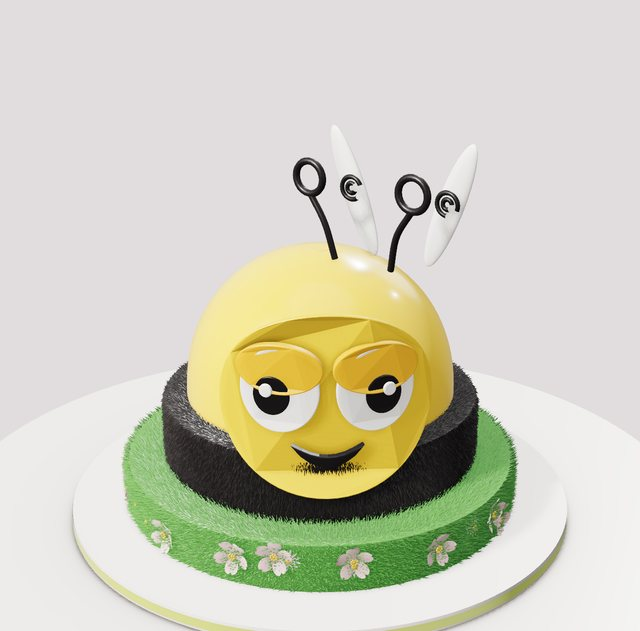
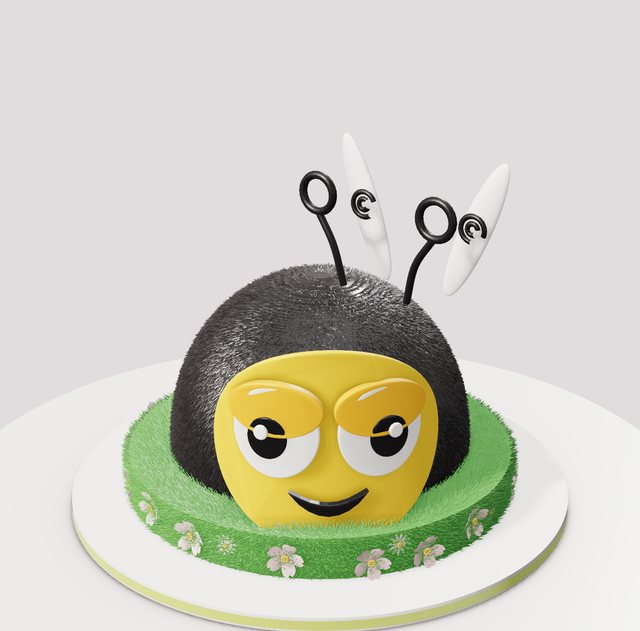
Money bag sack shape with rope knot and ties; fuzzy black bee dome with yellow face; smooth shading on all face pieces
Claude-Session: https://claude.ai/code/session_016sN14hzH19WJ5zrp8o2QGp

Changed region(s): [[0.0938, 0.2409, 0.9062, 1.0]]

diff --git a/studio.html b/studio.html
@@ -1132,7 +1132,7 @@ const texFade=(yy,h)=>smooth(.03,.3,yy)*smooth(h-.02,h-.32,yy);
 // ---------------------------------------------------------------- Cake shapes
 // Each shape gives the edge distance at angle a, as a multiple of the tier's radius (half its size).
 // Side profiles: scale a tier's width along its height (0 = bottom, 1 = top). Used for a gathered money bag and puffy pillow cakes.
-const PROFILES={bag:u=>(u=Math.min(1,Math.max(0,u)))<.3?.8+.2*Math.sin(u/.3*PI/2):.3+.7*Math.pow(Math.cos((u-.3)/.7*PI/2),.9),pillow:u=>.9+.1*Math.sin(PI*Math.min(1,Math.max(0,u))),dome:u=>.93+.07*Math.sin(PI*Math.min(1,Math.max(0,u))),half:u=>Math.max(.07,Math.sqrt(Math.max(0,1-Math.pow(Math.min(1,Math.max(0,u)),2.2)))),bucket:u=>.86+.14*Math.min(1,Math.max(0,u)),flare:u=>.62+.5*Math.pow(Math.min(1,Math.max(0,u)),1.4)};
+const PROFILES={bag:u=>(u=Math.min(1,Math.max(0,u)))<.3?.8+.2*Math.sin(u/.3*PI/2):.3+.7*Math.pow(Math.cos((u-.3)/.7*PI/2),.9),pillow:u=>.9+.1*Math.sin(PI*Math.min(1,Math.max(0,u))),dome:u=>.93+.07*Math.sin(PI*Math.min(1,Math.max(0,u))),half:u=>Math.max(.07,Math.sqrt(Math.max(0,1-Math.pow(Math.min(1,Math.max(0,u)),2.2)))),sack:u=>{u=Math.min(1,Math.max(0,u));return u<.14?.8+.2*Math.sin(u/.14*PI/2):u<.5?1:1-.56*Math.pow(Math.sin((u-.5)/.5*PI/2),1.6)},bucket:u=>.86+.14*Math.min(1,Math.max(0,u)),flare:u=>.62+.5*Math.pow(Math.min(1,Math.max(0,u)),1.4)};
 const SHAPES={round:'Round',square:'Square',hexagon:'Hexagon',heart:'Heart',petal:'Petal',oval:'Oval'};
 const HEART_LUT=(()=>{const pts=[];for(let i=0;i<1440;i++){const t=i/1440*2*PI,hx=16*Math.sin(t)**3,hy=13*Math.cos(t)-5*Math.cos(2*t)-2*Math.cos(3*t)-Math.cos(4*t),X=hx,Z=-(hy+1.5);pts.push([Math.atan2(Z,X),Math.hypot(X,Z)/16])}pts.sort((a,b)=>a[0]-b[0]);
  const N=720,L=new Float32Array(N);for(let i=0;i<N;i++){const a=-PI+i/N*2*PI;let j=pts.findIndex(p=>p[0]>=a);if(j<=0)j=j<0?0:1;const p0=pts[(j-1+pts.length)%pts.length],p1=pts[j%pts.length],da=(p1[0]-p0[0])||1e-6;L[i]=p0[1]+(p1[1]-p0[1])*Math.min(1,Math.max(0,(a-p0[0])/da))}return L})();
@@ -1341,7 +1341,7 @@ const sgMat={
  metal:c=>dmat(c,{r:.22,metal:1,cc:.5}),
  sugar:c=>dmat(c,{r:.45,cc:.35,ccr:.2,sh:.35})};
 // Bend a flat "face" piece around a tier of radius R (local units) so wide pieces hug the cake.
-function sgBend(g,R){if(!R||R<=0)return g;const p=g.attributes.position;for(let i=0;i<p.count;i++){const x=p.getX(i),y=p.getY(i),th=x/R;p.setX(i,(R+y)*Math.sin(th));p.setY(i,(R+y)*Math.cos(th)-R)}g.computeVertexNormals();return g}
+function sgBend(g,R){if(!R||R<=0)return g;const p=g.attributes.position,n=g.attributes.normal;if(!n)g.computeVertexNormals();const nn=g.attributes.normal;for(let i=0;i<p.count;i++){const x=p.getX(i),y=p.getY(i),th=x/R,c=Math.cos(th),s=Math.sin(th);p.setX(i,(R+y)*s);p.setY(i,(R+y)*c-R);const nx=nn.getX(i),ny=nn.getY(i);nn.setXYZ(i,nx*c+ny*s,-nx*s+ny*c,nn.getZ(i))}p.needsUpdate=true;nn.needsUpdate=true;return g}
 const sgR=(dc)=>dc&&dc.R?dc.R/((dc.size??100)/100):0;
 const sgOval=(x,y,rx,ry,depth,lift=0)=>{const pts=[];for(let i=0;i<72;i++){const a=i/72*2*PI;pts.push(new T.Vector2(x+rx*Math.cos(a),y+ry*Math.sin(a)))}return flatShape(new T.Shape(pts),depth,lift)};
 // ---------- sports balls ----------
@@ -1603,6 +1603,15 @@ function cornUpParts(q,c,mode,dc){const p=cornParts(q,c,mode,dc);for(const[,g]of
 DECOR.cornup={label:'Standing Corn',layouts:['cluster','crown','scatter'],layout:'cluster',count:3,max:12,color:'#f2c230',colors:['#f2c230','#f6d76a'],sp:.7,side:'up',sink:.02,tilt:[0,0],make:cornUpParts};
 DECOR_ICONS.cornup=DECOR_ICONS.corncob;
 {const c=DECOR_CATS.find(x=>x.key==='signature');c.items.push('cornup')}
+// ---- rope knot with hanging ends (money bag neck) ----
+function ropeKnotParts(q,c){const g=[];const rope=(pts,r)=>{const cv=new T.CatmullRomCurve3(pts.map(p=>new V3(...p))),tb=new T.TubeGeometry(cv,48,r,10,false),pp=tb.attributes.position;return tb};
+ for(let k=0;k<3;k++){const a=k/3*2*PI,t=new T.TorusGeometry(.24,.12,10,24);t.rotateY(.4);t.translate(Math.cos(a)*.13,Math.sin(a)*.13,.12);g.push(t)}const b=new T.SphereGeometry(.17,14,10);b.translate(0,0,.2);g.push(b);
+ g.push(rope([[-.05,-.1,.15],[-.2,-.6,.5],[-.36,-1.2,.85],[-.45,-1.75,1.15],[-.55,-2.4,1.35]],.13));g.push(rope([[.08,-.1,.15],[.22,-.55,.45],[.34,-1.05,.8],[.45,-1.6,1.1],[.5,-2.1,1.3]],.13));
+ for(const[x,y,z]of[[-.55,-2.42,1.35],[.5,-2.12,1.3]]){const s=new T.SphereGeometry(.1,10,8);s.translate(x,y,z);g.push(s)}
+ return[[dmat(c,{r:.6,cc:.1}),mg(g)]]}
+DECOR.ropeknot={label:'Rope Knot And Ties',layouts:['band'],layout:'band',count:1,max:2,color:'#1d1b1f',colors:['#1d1b1f','#d4ae5a','#8a5a3a','#fbf7f1'],sp:2,roll:0,sink:0,embed:.08,make:ropeKnotParts};
+DECOR_ICONS.ropeknot=di('<circle cx="20" cy="12" r="5" fill="#1d1b1f"/><path d="M18 15q-4 10-6 18M22 15q3 8 4 14" stroke="#1d1b1f" stroke-width="3" fill="none"/>');
+{const c=DECOR_CATS.find(x=>x.key==='signature');c.items.push('ropeknot')}
 
 // ---------- Signature cakes: Sprinkle Me Silly's real cakes, rebuilt in the Studio ----------
 const SIG='Signature Cakes';
@@ -1658,14 +1667,13 @@ THEMES.unshift(
   newTier(7.8,8.4,{color:'#fbf7f1',finish:'fondant',prof:'bucket',stencil:{pattern:'stripes',color:'#d62839',size:1.3,height:8.2},top:'rope',pipe:'#fbf7f1',bottom:'none',decor:[DC('poplabel','band',1,{color:'#d62839',size:200,R:3.7,rot:55,y:.6}),DC('popcorn','cluster',120,{color:'#f8efd4',size:260}),DC('ticket','cluster',1,{color:'#f6cf5a',size:300,center:true,face:95}),DC('stars','cluster',5,{mix:['#f38ab0','#5fc8d8','#f2c230'],size:240})]})]}},
  {key:'sig_crawfish',name:'Crawfish Boil Pot',tag:SIG,blurb:'A brushed silver stock pot cake with a tilted lid and loop handles, spilling over with crawfish and corn, with potatoes and corn on the board.',d:{board:'white',boardColor:'#ece5d3',topper:'none',tiers:[
   newTier(8,7,{color:'#c4c8ce',finish:'fondant',texture:'brushed',top:'rope',pipe:'#aeb2b8',bottom:'rope',bottomColor:'#aeb2b8',decor:[DC('pothandle','band',2,{color:'#c9ccd2',size:160,y:2,rot:95}),DC('potlid2','cluster',1,{color:'#c9ccd2',size:300,center:true}),DC('crawfish','crown',9,{color:'#d2381e',size:300}),DC('corncob','crown',3,{color:'#eeb31c',size:250,rot:60}),DC('crawhang','band',6,{color:'#d2381e',size:240,y:2.2}),DC('cornup','cluster',4,{color:'#eeb31c',size:300,where:'board',seed:3}),DC('corncob','cluster',2,{color:'#eeb31c',size:280,where:'board',seed:9}),DC('potato','cluster',5,{color:'#c99a45',size:320,where:'board'})]})]}},
- {key:'sig_bee',name:'Bumble Bee Garden',tag:SIG,blurb:'A smooth yellow dome bee head with big eyes and a smile, a fuzzy black piped collar, looped antennae and a garden of piped grass and sugar flowers.',d:{board:'white',boardColor:'#c9d96a',topper:'none',tiers:[
-  newTier(13,1.6,{color:'#5cae4a',texture:'grass',top:'none',bottom:'none',decor:[DC('daisies','scatter',12,{color:'#fbf7f1',size:130}),DC('blossoms','scatter',18,{mix:['#f3a6c0','#f2c230','#7fb0e8','#e8475f'],size:130})]}),
-  newTier(10.4,2.2,{color:'#1d1b1f',texture:'fur',top:'none',bottom:'none'}),
-  newTier(9,5,{color:'#ffd21f',finish:'fondant',prof:'half',top:'none',bottom:'none',decor:[DC('beeface','band',1,{color:'#ffd21f',size:340,R:4.5,rot:55,y:-.6}),DC('beetop','cluster',1,{color:'#ffd21f',size:230,center:true,face:95})]})]}},
- {key:'sig_moneybag',name:'Money Bag Birthday',tag:SIG,blurb:'A red money bag cake with a gathered neck tied in thick black rope, a big gold dollar sign, and cash and gold dollar signs bursting out the top.',d:{board:'white',boardColor:'#e9eaec',topper:'none',tiers:[
-  newTier(9,8,{color:'#c1442e',finish:'fondant',prof:'bag',top:'none',bottom:'none',decor:[DC('dollarface','band',1,{color:'#d4ae5a',size:340,R:4.5,rot:55,y:-1.2})]}),
-  newTier(3.4,1.2,{color:'#b73a26',finish:'fondant',top:'rope',pipe:'#1d1b1f',bottom:'rope',bottomColor:'#1d1b1f'}),
-  newTier(3.6,2.6,{color:'#c1442e',finish:'fondant',texture:'ruffle',prof:'flare',top:'none',bottom:'none',decor:[DC('cash','cluster',24,{size:340,center:true}),DC('dollarsign','cluster',3,{color:'#d4ae5a',size:230,center:true})]})]}});
+ {key:'sig_bee',name:'Bumble Bee Garden',tag:SIG,blurb:'A fuzzy black piped bee dome with a big round yellow face, googly eyes and a smile, swirl wings and curly antennae, in a garden of piped grass and sugar flowers.',d:{board:'white',boardColor:'#c9d96a',topper:'none',tiers:[
+  newTier(13,1.4,{color:'#5cae4a',texture:'grass',top:'none',bottom:'none',decor:[DC('daisies','scatter',12,{color:'#fbf7f1',size:130}),DC('blossoms','scatter',18,{mix:['#f3a6c0','#f2c230','#7fb0e8','#e8475f'],size:130})]}),
+  newTier(10,6,{color:'#1d1b1f',texture:'fur',prof:'half',top:'none',bottom:'none',decor:[DC('beeface','band',1,{color:'#ffd21f',size:370,R:4.3,rot:55,y:-.3}),DC('beetop','cluster',1,{color:'#ffd21f',size:260,center:true,face:95})]})]}},
+ {key:'sig_moneybag',name:'Money Bag Birthday',tag:SIG,blurb:'A red money bag cake with a gathered neck tied in thick black rope with a knot and hanging ties, a big gold dollar sign, and cash and gold dollar signs bursting out the top.',d:{board:'white',boardColor:'#e9eaec',topper:'none',tiers:[
+  newTier(9.4,7.4,{color:'#b5321f',prof:'sack',texture:'smooth',top:'none',bottom:'none',decor:[DC('dollarface','band',1,{color:'#d4ae5a',size:320,R:4.7,rot:55,y:-.5})]}),
+  newTier(4.4,.9,{color:'#a82e1c',top:'rope',pipe:'#1d1b1f',bottom:'rope',bottomColor:'#1d1b1f',decor:[DC('ropeknot','band',1,{color:'#1d1b1f',size:200,rot:92,y:.1})]}),
+  newTier(5.4,2,{color:'#b5321f',texture:'ruffle',prof:'flare',top:'none',bottom:'none',decor:[DC('cash','cluster',26,{size:360,center:true}),DC('dollarsign','cluster',2,{color:'#d4ae5a',size:300,center:true})]})]}});
 Object.assign(DECOR,Object.fromEntries(Object.entries(MODELS).map(([k,d])=>['m_'+k,{label:d[0]+' (3D)',layouts:['cluster','crown'],layout:'cluster',count:1,max:6,sp:3,side:'up',spin:.3,sink:0,embed:0,noTilt:true,model:true,make:(q,c,mode,dc)=>{const e=MODEL_CACHE[k];if(!e){loadModel(k);return[]}if(!e.parts)return[];if(e.pieces){const n=e.pieces.length,pi=dc?.piece!=null?dc.piece%n:Math.floor(q()*n);return e.pieces[pi].map(([m,g])=>[c?tintMat(m,c):m,g.clone()])}return e.parts.map(([m,g],pi)=>{const pc=dc?.partColors?.[pi]||c;return[pc?tintMat(m,pc):m,g.clone()]})}}])));
 for(const v of Object.values(DECOR))if(v&&v.label)v.label=capWords(v.label);
 DECOR_CATS.push({key:'m_figures',label:'3D Figures',items:['mermaid','princess','unicorn','unicornstand','unicrown','wedding','fairytale'].map(k=>'m_'+k)},{key:'m_animals',label:'3D Animals',items:['giraffe3','panda','sheep','rabbit3','corgi','duck','rubberduck','swans','butterfly3','panda2'].map(k=>'m_'+k)},{key:'m_dino',label:'3D Dinosaurs',items:['dino','babydino','spino','dino2','friendlydino','littledino','dino3','camodino','dinoemerge','jungledino'].map(k=>'m_'+k)},{key:'m_ocean',label:'3D Ocean',items:['oceangate','oceandancer','oceanjewel','oceansmile','oceanbloom','mermaidtale','mermaiddelight','unimermaid','mermaidtail','starfish','fish1','fish2'].map(k=>'m_'+k)},{key:'m_food',label:'3D Treats And Food',items:['corndog','popcorn','foodA','foodB','fries','pizza','burger','coffee'].map(k=>'m_'+k)},{key:'m_vehicles',label:'3D Cars And Sports',items:['carcartoon','cartooncar','whitecar','redcar','weatheredcar','baseball','basketball','tennis'].map(k=>'m_'+k)},{key:'m_trees',label:'3D Trees And Nature',items:['tree2','tree3','pinetree','mushroom','snowflake','leaf','mountain','fence'].map(k=>'m_'+k)},{key:'m_themes',label:'3D Toppers',items:['gradcap','rocket','shuttle','galleon','chest','globe','skull','wings','crystal','crystalflake'].map(k=>'m_'+k)},{key:'m_frames',label:'Frames',items:['frame','frame2','baroqueframe','luxe'].map(k=>'m_'+k)},{key:'m_bows',label:'Bows & Ribbons',items:['bowpastel','bowred'].map(k=>'m_'+k)});
@@ -2044,9 +2052,9 @@ function buildCake(){
   if(t.texture==='grass'||t.texture==='fur'){curPart='fur';const FUR=t.texture==='fur',lk=(t.furLen??100)/100,sp=(FUR?.06:.072)*Math.max(.8,Math.min(1.25,lk)),c1=new T.Color(t.color),c2=new T.Color(t.ombre?(t.ombreColor||'#fbf7f1'):t.color),cc=new T.Color(),P=[],N=[],C=[],U=new V3(),Vv=new V3(),D=new V3(),Bc=new V3(),Ns=new V3(),tmp=new V3();
    const strand=(B,Dir,Nsurf,L,w,k)=>{D.copy(Dir).normalize();U.set(0,1,0);if(Math.abs(D.y)>.9)U.set(1,0,0);U.cross(D).normalize();Vv.crossVectors(D,U);const tip=B.clone().addScaledVector(D,L);cc.copy(c1).lerp(c2,k);const dark=.7+q()*.12,lite=1.02+q()*.12;const ph=q()*6.28;for(let e=0;e<3;e++){const a0=ph+e/3*2*PI,a1=ph+(e+1)/3*2*PI;for(const[pt,isTip,aa]of[[null,false,a0],[null,false,a1],[tip,true,(a0+a1)/2]]){const p=isTip?tip:B.clone().addScaledVector(U,Math.cos(aa)*w).addScaledVector(Vv,Math.sin(aa)*w);P.push(p.x,p.y,p.z);tmp.copy(U).multiplyScalar(Math.cos(aa)).addScaledVector(Vv,Math.sin(aa)).multiplyScalar(.45).addScaledVector(Nsurf,.75).normalize();N.push(tmp.x,tmp.y,tmp.z);const f=isTip?lite:dark;C.push(cc.r*f,cc.g*f,cc.b*f)}}};
    // Sides
-   const rows=Math.max(3,Math.round(h/sp)),cols=Math.max(24,Math.round(2*PI*r/sp));for(let row=0;row<rows;row++){const yy=y+(row+.3+q()*.4)*h/rows;for(let jj=0;jj<cols;jj++){const a=(jj+(row%2?.5:0)+(q()-.5)*.6)/cols*2*PI;const R=R_at(a,yy)-.02;Ns.copy(radial(a));Bc.copy(Ns).multiplyScalar(R).setY(yy);const tilt=FUR?-(.55+q()*.5):(.25+q()*.55),sw=(q()-.5)*(FUR?.5:.8);D.copy(Ns).multiplyScalar(Math.cos(tilt)).add(tmp.set(0,Math.sin(tilt),0)).addScaledVector(new V3(-Math.sin(a),0,Math.cos(a)),sw);const L=(FUR?.17+q()*.1:.22+q()*.16)*lk;strand(Bc.clone(),D.clone(),Ns.clone(),L,(FUR?.032:.028)*Math.min(1.3,lk+.2),(yy-y)/h)}}
+   const rows=Math.max(3,Math.round(h/sp)),cols=Math.max(24,Math.round(2*PI*r/sp));for(let row=0;row<rows;row++){const yy=y+(row+.3+q()*.4)*h/rows;for(let jj=0;jj<cols;jj++){const a=(jj+(row%2?.5:0)+(q()-.5)*.6)/cols*2*PI;const R=R_at(a,yy)-.02;Ns.copy(radial(a));Bc.copy(Ns).multiplyScalar(R).setY(yy);if(t.prof){const sl=(R_at(a,yy+.06)-R_at(a,yy-.06))/.12;Ns.setY(-sl).normalize()}const tilt=FUR?-(.55+q()*.5):(.25+q()*.55),sw=(q()-.5)*(FUR?.5:.8);D.copy(Ns).multiplyScalar(Math.cos(tilt)).add(tmp.set(0,Math.sin(tilt),0)).addScaledVector(new V3(-Math.sin(a),0,Math.cos(a)),sw);const L=(FUR?.17+q()*.1:.22+q()*.16)*lk;strand(Bc.clone(),D.clone(),Ns.clone(),L,(FUR?.032:.028)*Math.min(1.3,lk+.2),(yy-y)/h)}}
    // Top: sunflower spiral so the strands spread evenly, leaving room for the next tier.
-   if(t.furTop!==false){const inner=nr?nr-.1:0,area=PI*(r*r-inner*inner),M=Math.round(area/(sp*sp)),GA=PI*(3-Math.sqrt(5));Ns.set(0,1,0);for(let k=0;k<M;k++){const rr=Math.sqrt(inner*inner+(r*r-inner*inner)*(k+.5)/M)*.985,a=k*GA,yy=y+h;Bc.copy(radial(a)).multiplyScalar(rr).setY(yy-.02);const edge=Math.max(0,(rr-(r-.5))/.5),lean=(FUR?.5:.3)+q()*(FUR?.6:.5)+edge*.6,dir=a+(q()-.5)*1.2;D.set(Math.cos(dir)*Math.sin(lean),Math.cos(lean),Math.sin(dir)*Math.sin(lean));const L=(FUR?.15+q()*.1:.22+q()*.16)*lk;strand(Bc.clone(),D.clone(),Ns.clone(),L,(FUR?.032:.028)*Math.min(1.3,lk+.2),1)}}
+   if(t.furTop!==false&&!t.prof){const inner=nr?nr-.1:0,area=PI*(r*r-inner*inner),M=Math.round(area/(sp*sp)),GA=PI*(3-Math.sqrt(5));Ns.set(0,1,0);for(let k=0;k<M;k++){const rr=Math.sqrt(inner*inner+(r*r-inner*inner)*(k+.5)/M)*.985,a=k*GA,yy=y+h;Bc.copy(radial(a)).multiplyScalar(rr).setY(yy-.02);const edge=Math.max(0,(rr-(r-.5))/.5),lean=(FUR?.5:.3)+q()*(FUR?.6:.5)+edge*.6,dir=a+(q()-.5)*1.2;D.set(Math.cos(dir)*Math.sin(lean),Math.cos(lean),Math.sin(dir)*Math.sin(lean));const L=(FUR?.15+q()*.1:.22+q()*.16)*lk;strand(Bc.clone(),D.clone(),Ns.clone(),L,(FUR?.032:.028)*Math.min(1.3,lk+.2),1)}}
    const g=new T.BufferGeometry();g.setAttribute('position',new T.Float32BufferAttribute(P,3));g.setAttribute('normal',new T.Float32BufferAttribute(N,3));g.setAttribute('color',new T.Float32BufferAttribute(C,3));add(pipeMat('#ffffff'),g);curPart='piping'}
   if(t.stencil?.pattern){try{buildStencil(t,{r,h,y,R_at,add})}catch(err){console.error('Stencil skipped',err)}}
   if(t.topImg||t.sideImg){try{buildEdibles(t,{r,h,y,R_at,add,SHf,q})}catch(err){console.error('Edible image skipped',err)}}

diff --git a/tools/signature-decor.js b/tools/signature-decor.js
@@ -9,7 +9,7 @@ const sgMat={
  metal:c=>dmat(c,{r:.22,metal:1,cc:.5}),
  sugar:c=>dmat(c,{r:.45,cc:.35,ccr:.2,sh:.35})};
 // Bend a flat "face" piece around a tier of radius R (local units) so wide pieces hug the cake.
-function sgBend(g,R){if(!R||R<=0)return g;const p=g.attributes.position;for(let i=0;i<p.count;i++){const x=p.getX(i),y=p.getY(i),th=x/R;p.setX(i,(R+y)*Math.sin(th));p.setY(i,(R+y)*Math.cos(th)-R)}g.computeVertexNormals();return g}
+function sgBend(g,R){if(!R||R<=0)return g;const p=g.attributes.position,n=g.attributes.normal;if(!n)g.computeVertexNormals();const nn=g.attributes.normal;for(let i=0;i<p.count;i++){const x=p.getX(i),y=p.getY(i),th=x/R,c=Math.cos(th),s=Math.sin(th);p.setX(i,(R+y)*s);p.setY(i,(R+y)*c-R);const nx=nn.getX(i),ny=nn.getY(i);nn.setXYZ(i,nx*c+ny*s,-nx*s+ny*c,nn.getZ(i))}p.needsUpdate=true;nn.needsUpdate=true;return g}
 const sgR=(dc)=>dc&&dc.R?dc.R/((dc.size??100)/100):0;
 const sgOval=(x,y,rx,ry,depth,lift=0)=>{const pts=[];for(let i=0;i<72;i++){const a=i/72*2*PI;pts.push(new T.Vector2(x+rx*Math.cos(a),y+ry*Math.sin(a)))}return flatShape(new T.Shape(pts),depth,lift)};
 // ---------- sports balls ----------
@@ -271,6 +271,15 @@ function cornUpParts(q,c,mode,dc){const p=cornParts(q,c,mode,dc);for(const[,g]of
 DECOR.cornup={label:'Standing Corn',layouts:['cluster','crown','scatter'],layout:'cluster',count:3,max:12,color:'#f2c230',colors:['#f2c230','#f6d76a'],sp:.7,side:'up',sink:.02,tilt:[0,0],make:cornUpParts};
 DECOR_ICONS.cornup=DECOR_ICONS.corncob;
 {const c=DECOR_CATS.find(x=>x.key==='signature');c.items.push('cornup')}
+// ---- rope knot with hanging ends (money bag neck) ----
+function ropeKnotParts(q,c){const g=[];const rope=(pts,r)=>{const cv=new T.CatmullRomCurve3(pts.map(p=>new V3(...p))),tb=new T.TubeGeometry(cv,48,r,10,false),pp=tb.attributes.position;return tb};
+ for(let k=0;k<3;k++){const a=k/3*2*PI,t=new T.TorusGeometry(.24,.12,10,24);t.rotateY(.4);t.translate(Math.cos(a)*.13,Math.sin(a)*.13,.12);g.push(t)}const b=new T.SphereGeometry(.17,14,10);b.translate(0,0,.2);g.push(b);
+ g.push(rope([[-.05,-.1,.15],[-.2,-.6,.5],[-.36,-1.2,.85],[-.45,-1.75,1.15],[-.55,-2.4,1.35]],.13));g.push(rope([[.08,-.1,.15],[.22,-.55,.45],[.34,-1.05,.8],[.45,-1.6,1.1],[.5,-2.1,1.3]],.13));
+ for(const[x,y,z]of[[-.55,-2.42,1.35],[.5,-2.12,1.3]]){const s=new T.SphereGeometry(.1,10,8);s.translate(x,y,z);g.push(s)}
+ return[[dmat(c,{r:.6,cc:.1}),mg(g)]]}
+DECOR.ropeknot={label:'Rope Knot And Ties',layouts:['band'],layout:'band',count:1,max:2,color:'#1d1b1f',colors:['#1d1b1f','#d4ae5a','#8a5a3a','#fbf7f1'],sp:2,roll:0,sink:0,embed:.08,make:ropeKnotParts};
+DECOR_ICONS.ropeknot=di('<circle cx="20" cy="12" r="5" fill="#1d1b1f"/><path d="M18 15q-4 10-6 18M22 15q3 8 4 14" stroke="#1d1b1f" stroke-width="3" fill="none"/>');
+{const c=DECOR_CATS.find(x=>x.key==='signature');c.items.push('ropeknot')}
 
 // ---------- Signature cakes: Sprinkle Me Silly's real cakes, rebuilt in the Studio ----------
 const SIG='Signature Cakes';
@@ -326,11 +335,10 @@ THEMES.unshift(
   newTier(7.8,8.4,{color:'#fbf7f1',finish:'fondant',prof:'bucket',stencil:{pattern:'stripes',color:'#d62839',size:1.3,height:8.2},top:'rope',pipe:'#fbf7f1',bottom:'none',decor:[DC('poplabel','band',1,{color:'#d62839',size:200,R:3.7,rot:55,y:.6}),DC('popcorn','cluster',120,{color:'#f8efd4',size:260}),DC('ticket','cluster',1,{color:'#f6cf5a',size:300,center:true,face:95}),DC('stars','cluster',5,{mix:['#f38ab0','#5fc8d8','#f2c230'],size:240})]})]}},
  {key:'sig_crawfish',name:'Crawfish Boil Pot',tag:SIG,blurb:'A brushed silver stock pot cake with a tilted lid and loop handles, spilling over with crawfish and corn, with potatoes and corn on the board.',d:{board:'white',boardColor:'#ece5d3',topper:'none',tiers:[
   newTier(8,7,{color:'#c4c8ce',finish:'fondant',texture:'brushed',top:'rope',pipe:'#aeb2b8',bottom:'rope',bottomColor:'#aeb2b8',decor:[DC('pothandle','band',2,{color:'#c9ccd2',size:160,y:2,rot:95}),DC('potlid2','cluster',1,{color:'#c9ccd2',size:300,center:true}),DC('crawfish','crown',9,{color:'#d2381e',size:300}),DC('corncob','crown',3,{color:'#eeb31c',size:250,rot:60}),DC('crawhang','band',6,{color:'#d2381e',size:240,y:2.2}),DC('cornup','cluster',4,{color:'#eeb31c',size:300,where:'board',seed:3}),DC('corncob','cluster',2,{color:'#eeb31c',size:280,where:'board',seed:9}),DC('potato','cluster',5,{color:'#c99a45',size:320,where:'board'})]})]}},
- {key:'sig_bee',name:'Bumble Bee Garden',tag:SIG,blurb:'A smooth yellow dome bee head with big eyes and a smile, a fuzzy black piped collar, looped antennae and a garden of piped grass and sugar flowers.',d:{board:'white',boardColor:'#c9d96a',topper:'none',tiers:[
-  newTier(13,1.6,{color:'#5cae4a',texture:'grass',top:'none',bottom:'none',decor:[DC('daisies','scatter',12,{color:'#fbf7f1',size:130}),DC('blossoms','scatter',18,{mix:['#f3a6c0','#f2c230','#7fb0e8','#e8475f'],size:130})]}),
-  newTier(10.4,2.2,{color:'#1d1b1f',texture:'fur',top:'none',bottom:'none'}),
-  newTier(9,5,{color:'#ffd21f',finish:'fondant',prof:'half',top:'none',bottom:'none',decor:[DC('beeface','band',1,{color:'#ffd21f',size:340,R:4.5,rot:55,y:-.6}),DC('beetop','cluster',1,{color:'#ffd21f',size:230,center:true,face:95})]})]}},
- {key:'sig_moneybag',name:'Money Bag Birthday',tag:SIG,blurb:'A red money bag cake with a gathered neck tied in thick black rope, a big gold dollar sign, and cash and gold dollar signs bursting out the top.',d:{board:'white',boardColor:'#e9eaec',topper:'none',tiers:[
-  newTier(9,8,{color:'#c1442e',finish:'fondant',prof:'bag',top:'none',bottom:'none',decor:[DC('dollarface','band',1,{color:'#d4ae5a',size:340,R:4.5,rot:55,y:-1.2})]}),
-  newTier(3.4,1.2,{color:'#b73a26',finish:'fondant',top:'rope',pipe:'#1d1b1f',bottom:'rope',bottomColor:'#1d1b1f'}),
-  newTier(3.6,2.6,{color:'#c1442e',finish:'fondant',texture:'ruffle',prof:'flare',top:'none',bottom:'none',decor:[DC('cash','cluster',24,{size:340,center:true}),DC('dollarsign','cluster',3,{color:'#d4ae5a',size:230,center:true})]})]}});
+ {key:'sig_bee',name:'Bumble Bee Garden',tag:SIG,blurb:'A fuzzy black piped bee dome with a big round yellow face, googly eyes and a smile, swirl wings and curly antennae, in a garden of piped grass and sugar flowers.',d:{board:'white',boardColor:'#c9d96a',topper:'none',tiers:[
+  newTier(13,1.4,{color:'#5cae4a',texture:'grass',top:'none',bottom:'none',decor:[DC('daisies','scatter',12,{color:'#fbf7f1',size:130}),DC('blossoms','scatter',18,{mix:['#f3a6c0','#f2c230','#7fb0e8','#e8475f'],size:130})]}),
+  newTier(10,6,{color:'#1d1b1f',texture:'fur',prof:'half',top:'none',bottom:'none',decor:[DC('beeface','band',1,{color:'#ffd21f',size:370,R:4.3,rot:55,y:-.3}),DC('beetop','cluster',1,{color:'#ffd21f',size:260,center:true,face:95})]})]}},
+ {key:'sig_moneybag',name:'Money Bag Birthday',tag:SIG,blurb:'A red money bag cake with a gathered neck tied in thick black rope with a knot and hanging ties, a big gold dollar sign, and cash and gold dollar signs bursting out the top.',d:{board:'white',boardColor:'#e9eaec',topper:'none',tiers:[
+  newTier(9.4,7.4,{color:'#b5321f',prof:'sack',texture:'smooth',top:'none',bottom:'none',decor:[DC('dollarface','band',1,{color:'#d4ae5a',size:320,R:4.7,rot:55,y:-.5})]}),
+  newTier(4.4,.9,{color:'#a82e1c',top:'rope',pipe:'#1d1b1f',bottom:'rope',bottomColor:'#1d1b1f',decor:[DC('ropeknot','band',1,{color:'#1d1b1f',size:200,rot:92,y:.1})]}),
+  newTier(5.4,2,{color:'#b5321f',texture:'ruffle',prof:'flare',top:'none',bottom:'none',decor:[DC('cash','cluster',26,{size:360,center:true}),DC('dollarsign','cluster',2,{color:'#d4ae5a',size:300,center:true})]})]}});

diff --git a/tools/sig-themes.js b/tools/sig-themes.js
@@ -52,11 +52,10 @@ THEMES.unshift(
   newTier(7.8,8.4,{color:'#fbf7f1',finish:'fondant',prof:'bucket',stencil:{pattern:'stripes',color:'#d62839',size:1.3,height:8.2},top:'rope',pipe:'#fbf7f1',bottom:'none',decor:[DC('poplabel','band',1,{color:'#d62839',size:200,R:3.7,rot:55,y:.6}),DC('popcorn','cluster',120,{color:'#f8efd4',size:260}),DC('ticket','cluster',1,{color:'#f6cf5a',size:300,center:true,face:95}),DC('stars','cluster',5,{mix:['#f38ab0','#5fc8d8','#f2c230'],size:240})]})]}},
  {key:'sig_crawfish',name:'Crawfish Boil Pot',tag:SIG,blurb:'A brushed silver stock pot cake with a tilted lid and loop handles, spilling over with crawfish and corn, with potatoes and corn on the board.',d:{board:'white',boardColor:'#ece5d3',topper:'none',tiers:[
   newTier(8,7,{color:'#c4c8ce',finish:'fondant',texture:'brushed',top:'rope',pipe:'#aeb2b8',bottom:'rope',bottomColor:'#aeb2b8',decor:[DC('pothandle','band',2,{color:'#c9ccd2',size:160,y:2,rot:95}),DC('potlid2','cluster',1,{color:'#c9ccd2',size:300,center:true}),DC('crawfish','crown',9,{color:'#d2381e',size:300}),DC('corncob','crown',3,{color:'#eeb31c',size:250,rot:60}),DC('crawhang','band',6,{color:'#d2381e',size:240,y:2.2}),DC('cornup','cluster',4,{color:'#eeb31c',size:300,where:'board',seed:3}),DC('corncob','cluster',2,{color:'#eeb31c',size:280,where:'board',seed:9}),DC('potato','cluster',5,{color:'#c99a45',size:320,where:'board'})]})]}},
- {key:'sig_bee',name:'Bumble Bee Garden',tag:SIG,blurb:'A smooth yellow dome bee head with big eyes and a smile, a fuzzy black piped collar, looped antennae and a garden of piped grass and sugar flowers.',d:{board:'white',boardColor:'#c9d96a',topper:'none',tiers:[
-  newTier(13,1.6,{color:'#5cae4a',texture:'grass',top:'none',bottom:'none',decor:[DC('daisies','scatter',12,{color:'#fbf7f1',size:130}),DC('blossoms','scatter',18,{mix:['#f3a6c0','#f2c230','#7fb0e8','#e8475f'],size:130})]}),
-  newTier(10.4,2.2,{color:'#1d1b1f',texture:'fur',top:'none',bottom:'none'}),
-  newTier(9,5,{color:'#ffd21f',finish:'fondant',prof:'half',top:'none',bottom:'none',decor:[DC('beeface','band',1,{color:'#ffd21f',size:340,R:4.5,rot:55,y:-.6}),DC('beetop','cluster',1,{color:'#ffd21f',size:230,center:true,face:95})]})]}},
- {key:'sig_moneybag',name:'Money Bag Birthday',tag:SIG,blurb:'A red money bag cake with a gathered neck tied in thick black rope, a big gold dollar sign, and cash and gold dollar signs bursting out the top.',d:{board:'white',boardColor:'#e9eaec',topper:'none',tiers:[
-  newTier(9,8,{color:'#c1442e',finish:'fondant',prof:'bag',top:'none',bottom:'none',decor:[DC('dollarface','band',1,{color:'#d4ae5a',size:340,R:4.5,rot:55,y:-1.2})]}),
-  newTier(3.4,1.2,{color:'#b73a26',finish:'fondant',top:'rope',pipe:'#1d1b1f',bottom:'rope',bottomColor:'#1d1b1f'}),
-  newTier(3.6,2.6,{color:'#c1442e',finish:'fondant',texture:'ruffle',prof:'flare',top:'none',bottom:'none',decor:[DC('cash','cluster',24,{size:340,center:true}),DC('dollarsign','cluster',3,{color:'#d4ae5a',size:230,center:true})]})]}});
+ {key:'sig_bee',name:'Bumble Bee Garden',tag:SIG,blurb:'A fuzzy black piped bee dome with a big round yellow face, googly eyes and a smile, swirl wings and curly antennae, in a garden of piped grass and sugar flowers.',d:{board:'white',boardColor:'#c9d96a',topper:'none',tiers:[
+  newTier(13,1.4,{color:'#5cae4a',texture:'grass',top:'none',bottom:'none',decor:[DC('daisies','scatter',12,{color:'#fbf7f1',size:130}),DC('blossoms','scatter',18,{mix:['#f3a6c0','#f2c230','#7fb0e8','#e8475f'],size:130})]}),
+  newTier(10,6,{color:'#1d1b1f',texture:'fur',prof:'half',top:'none',bottom:'none',decor:[DC('beeface','band',1,{color:'#ffd21f',size:370,R:4.3,rot:55,y:-.3}),DC('beetop','cluster',1,{color:'#ffd21f',size:260,center:true,face:95})]})]}},
+ {key:'sig_moneybag',name:'Money Bag Birthday',tag:SIG,blurb:'A red money bag cake with a gathered neck tied in thick black rope with a knot and hanging ties, a big gold dollar sign, and cash and gold dollar signs bursting out the top.',d:{board:'white',boardColor:'#e9eaec',topper:'none',tiers:[
+  newTier(9.4,7.4,{color:'#b5321f',prof:'sack',texture:'smooth',top:'none',bottom:'none',decor:[DC('dollarface','band',1,{color:'#d4ae5a',size:320,R:4.7,rot:55,y:-.5})]}),
+  newTier(4.4,.9,{color:'#a82e1c',top:'rope',pipe:'#1d1b1f',bottom:'rope',bottomColor:'#1d1b1f',decor:[DC('ropeknot','band',1,{color:'#1d1b1f',size:200,rot:92,y:.1})]}),
+  newTier(5.4,2,{color:'#b5321f',texture:'ruffle',prof:'flare',top:'none',bottom:'none',decor:[DC('cash','cluster',26,{size:360,center:true}),DC('dollarsign','cluster',2,{color:'#d4ae5a',size:300,center:true})]})]}});

diff --git a/tools/sig-extra.js b/tools/sig-extra.js
@@ -96,3 +96,12 @@ function cornUpParts(q,c,mode,dc){const p=cornParts(q,c,mode,dc);for(const[,g]of
 DECOR.cornup={label:'Standing Corn',layouts:['cluster','crown','scatter'],layout:'cluster',count:3,max:12,color:'#f2c230',colors:['#f2c230','#f6d76a'],sp:.7,side:'up',sink:.02,tilt:[0,0],make:cornUpParts};
 DECOR_ICONS.cornup=DECOR_ICONS.corncob;
 {const c=DECOR_CATS.find(x=>x.key==='signature');c.items.push('cornup')}
+// ---- rope knot with hanging ends (money bag neck) ----
+function ropeKnotParts(q,c){const g=[];const rope=(pts,r)=>{const cv=new T.CatmullRomCurve3(pts.map(p=>new V3(...p))),tb=new T.TubeGeometry(cv,48,r,10,false),pp=tb.attributes.position;return tb};
+ for(let k=0;k<3;k++){const a=k/3*2*PI,t=new T.TorusGeometry(.24,.12,10,24);t.rotateY(.4);t.translate(Math.cos(a)*.13,Math.sin(a)*.13,.12);g.push(t)}const b=new T.SphereGeometry(.17,14,10);b.translate(0,0,.2);g.push(b);
+ g.push(rope([[-.05,-.1,.15],[-.2,-.6,.5],[-.36,-1.2,.85],[-.45,-1.75,1.15],[-.55,-2.4,1.35]],.13));g.push(rope([[.08,-.1,.15],[.22,-.55,.45],[.34,-1.05,.8],[.45,-1.6,1.1],[.5,-2.1,1.3]],.13));
+ for(const[x,y,z]of[[-.55,-2.42,1.35],[.5,-2.12,1.3]]){const s=new T.SphereGeometry(.1,10,8);s.translate(x,y,z);g.push(s)}
+ return[[dmat(c,{r:.6,cc:.1}),mg(g)]]}
+DECOR.ropeknot={label:'Rope Knot And Ties',layouts:['band'],layout:'band',count:1,max:2,color:'#1d1b1f',colors:['#1d1b1f','#d4ae5a','#8a5a3a','#fbf7f1'],sp:2,roll:0,sink:0,embed:.08,make:ropeKnotParts};
+DECOR_ICONS.ropeknot=di('<circle cx="20" cy="12" r="5" fill="#1d1b1f"/><path d="M18 15q-4 10-6 18M22 15q3 8 4 14" stroke="#1d1b1f" stroke-width="3" fill="none"/>');
+{const c=DECOR_CATS.find(x=>x.key==='signature');c.items.push('ropeknot')}

diff --git a/tools/sig-pieces.js b/tools/sig-pieces.js
@@ -9,7 +9,7 @@ const sgMat={
  metal:c=>dmat(c,{r:.22,metal:1,cc:.5}),
  sugar:c=>dmat(c,{r:.45,cc:.35,ccr:.2,sh:.35})};
 // Bend a flat "face" piece around a tier of radius R (local units) so wide pieces hug the cake.
-function sgBend(g,R){if(!R||R<=0)return g;const p=g.attributes.position;for(let i=0;i<p.count;i++){const x=p.getX(i),y=p.getY(i),th=x/R;p.setX(i,(R+y)*Math.sin(th));p.setY(i,(R+y)*Math.cos(th)-R)}g.computeVertexNormals();return g}
+function sgBend(g,R){if(!R||R<=0)return g;const p=g.attributes.position,n=g.attributes.normal;if(!n)g.computeVertexNormals();const nn=g.attributes.normal;for(let i=0;i<p.count;i++){const x=p.getX(i),y=p.getY(i),th=x/R,c=Math.cos(th),s=Math.sin(th);p.setX(i,(R+y)*s);p.setY(i,(R+y)*c-R);const nx=nn.getX(i),ny=nn.getY(i);nn.setXYZ(i,nx*c+ny*s,-nx*s+ny*c,nn.getZ(i))}p.needsUpdate=true;nn.needsUpdate=true;return g}
 const sgR=(dc)=>dc&&dc.R?dc.R/((dc.size??100)/100):0;
 const sgOval=(x,y,rx,ry,depth,lift=0)=>{const pts=[];for(let i=0;i<72;i++){const a=i/72*2*PI;pts.push(new T.Vector2(x+rx*Math.cos(a),y+ry*Math.sin(a)))}return flatShape(new T.Shape(pts),depth,lift)};
 // ---------- sports balls ----------
